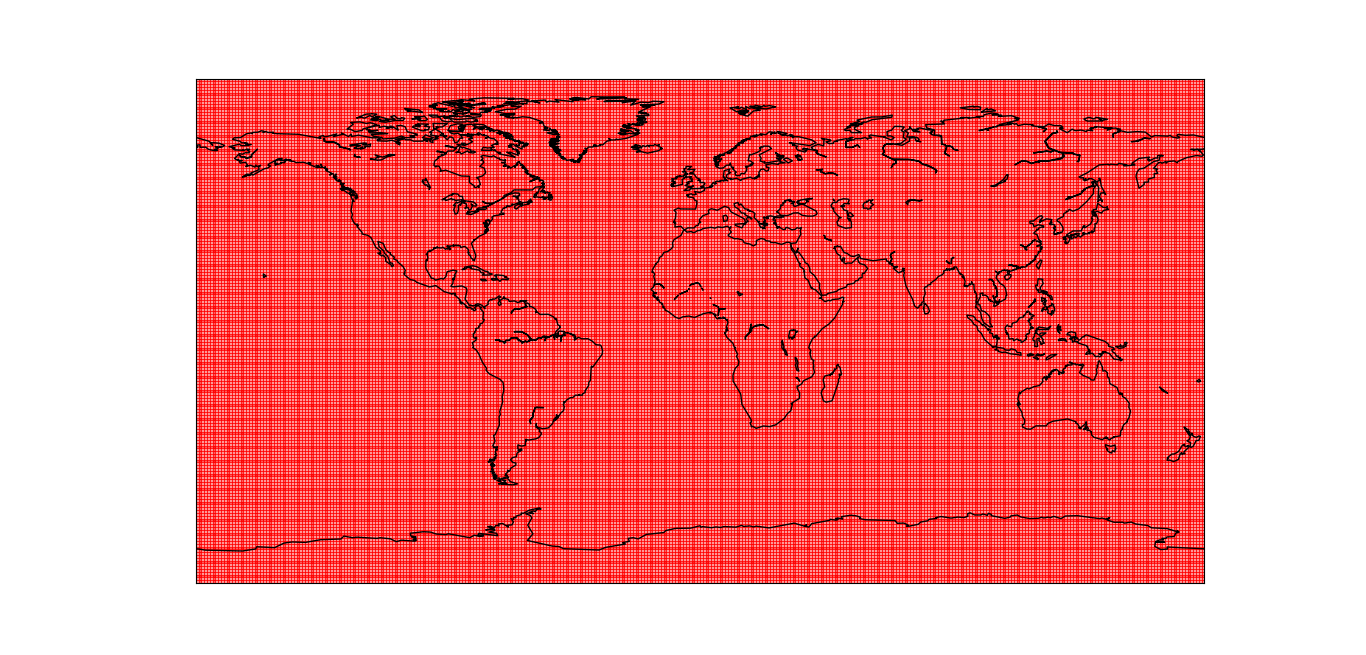
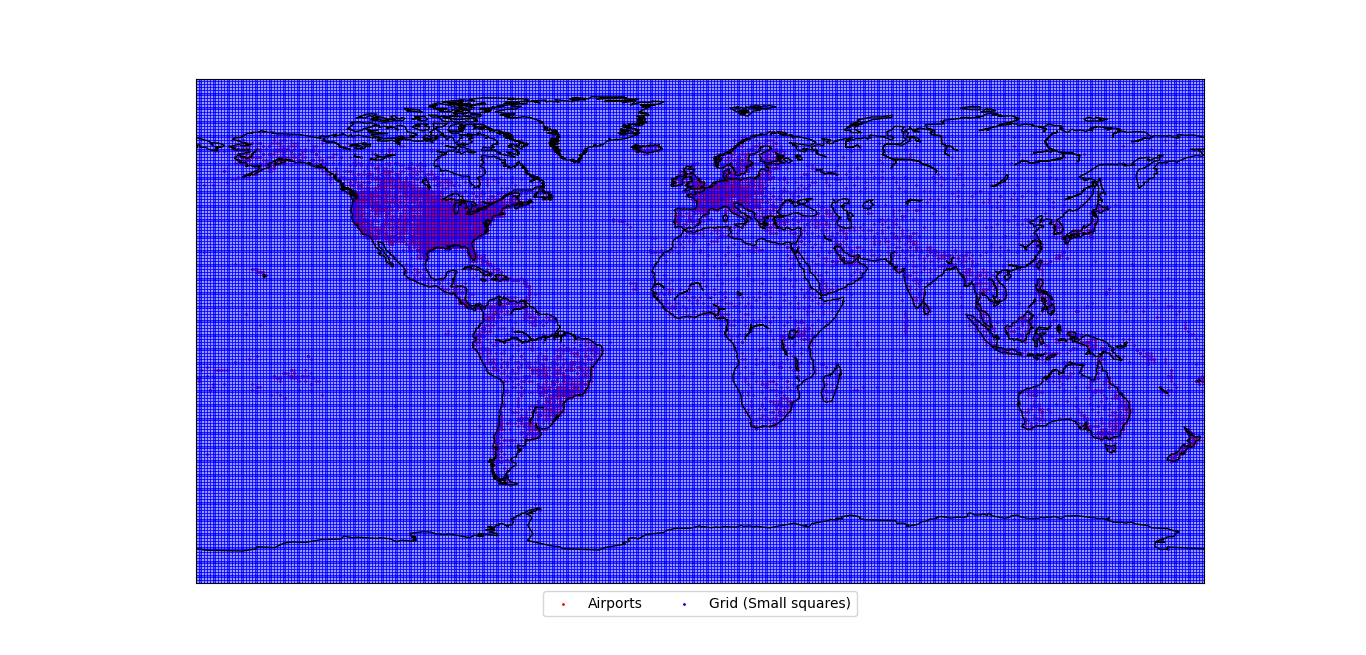
Added interpolation

diff --git a/utils/parse_stations.py b/utils/parse_stations.py
@@ -62,7 +62,7 @@ if(1):
     
     handle_dict = {
     "Airports" : 0,
-    "Extra stations" : 0,
+    "Grid (Small squares)" : 0,
     }
    
 
@@ -85,9 +85,9 @@ if(1):
             y = round(float(stations[i]['lat']))
             x = round(float(stations[i]['lon']))
             m.scatter(x,y,color="blue",s=1,label = 
-                "Extra stations" if handle_dict['Extra stations'] == 0
+                "Grid (Small squares)" if handle_dict["Grid (Small squares)"] == 0
                 else "_no-legend_")
-            handle_dict['Extra stations'] += 1
+            handle_dict["Grid (Small squares)"] += 1
    
     plt.legend(loc="lower center", ncol=2,bbox_to_anchor =(0.5, -0.08))
     plt.show()

diff --git a/main.py b/main.py
@@ -249,7 +249,6 @@ def data_process():
     if(not dates):
         return
 
-
     
     #Get the wind data
     if 1:
